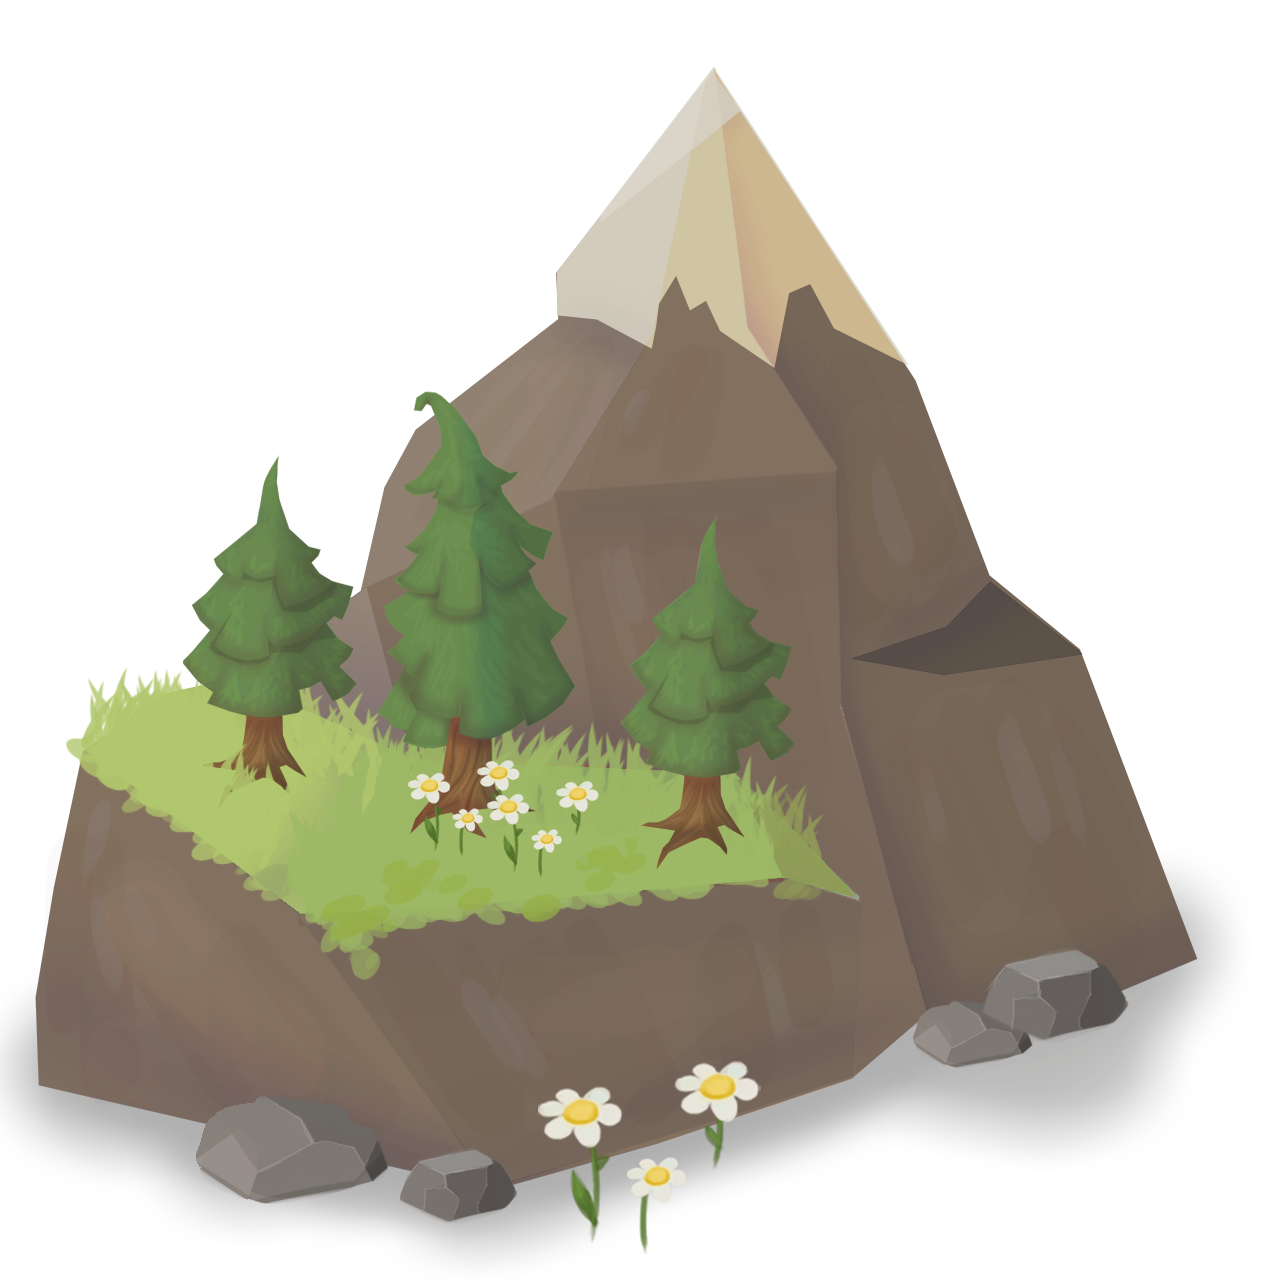
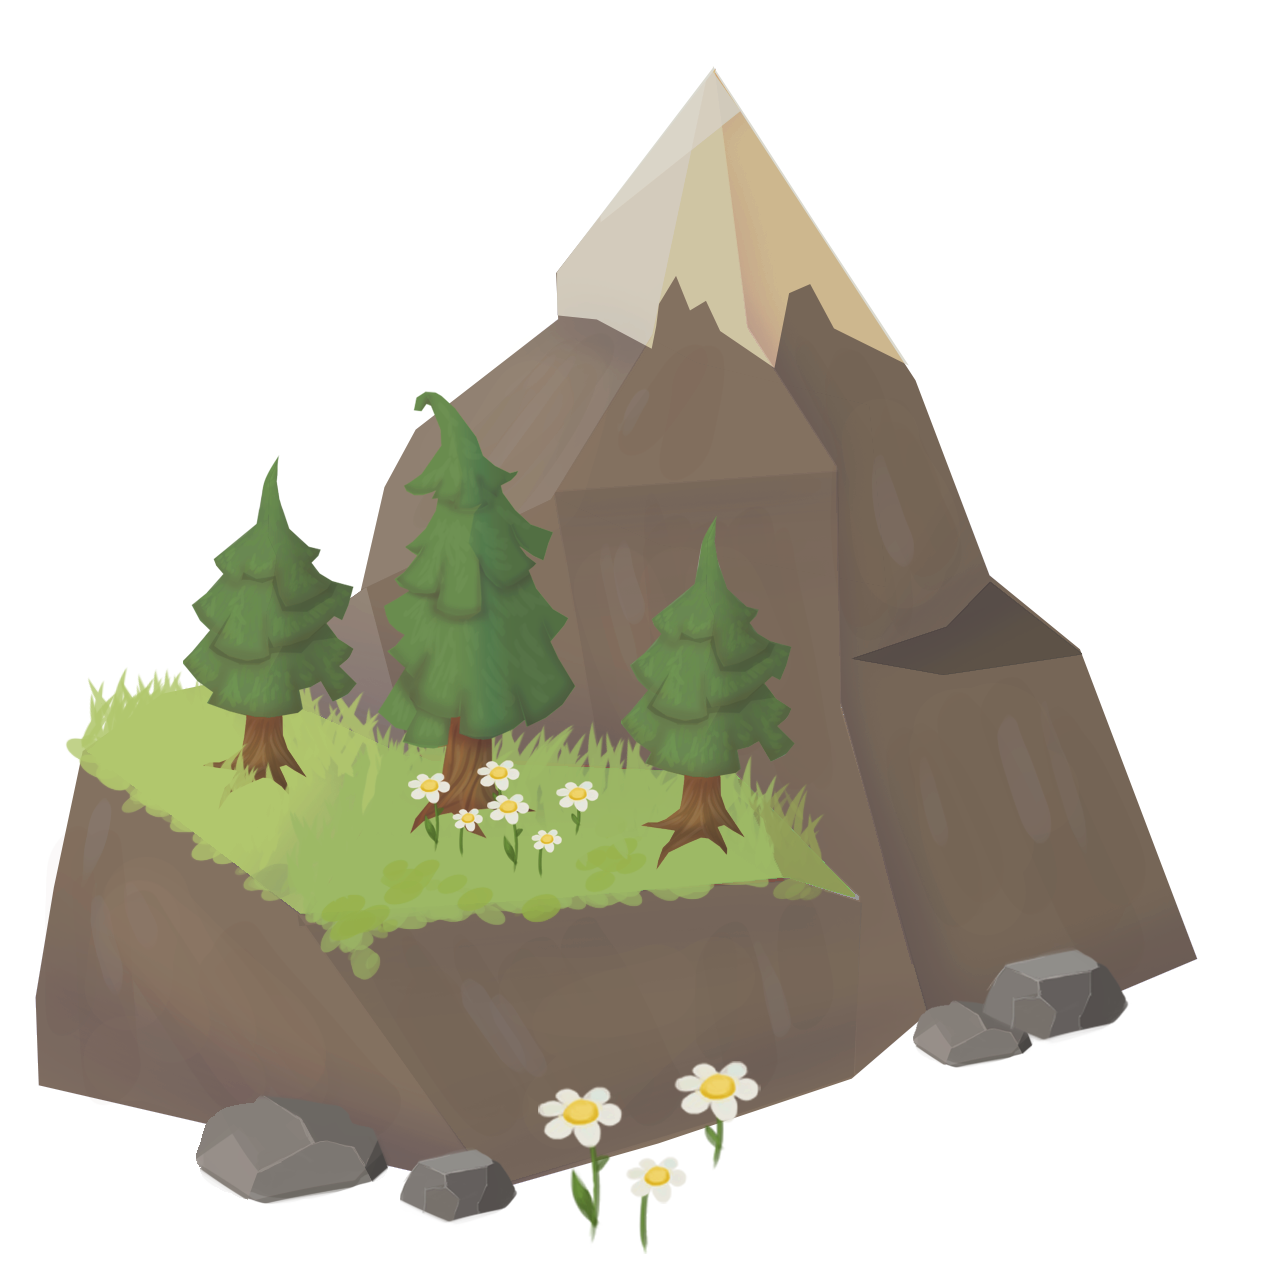
grass texture

Changed region(s): [[0.0, 0.6875, 0.9688, 1.0]]

diff --git a/src/render.rs b/src/render.rs
@@ -44,18 +44,9 @@ pub struct CellHint {
     col: usize,
 }
 
-pub fn get_cell_color(cell_type: CellType) -> Color {
-    match cell_type {
-        CellType::Grass => Color::NONE,
-        CellType::Tree => Color::WHITE,
-        CellType::Lake => Color::WHITE,
-        CellType::Mountain => Color::WHITE,
-    }
-}
-
 pub fn get_cell_texture(server: &Res<AssetServer>, cell_type: CellType) -> Handle<Image> {
     match cell_type {
-        CellType::Grass => DEFAULT_IMAGE_HANDLE.typed(),
+        CellType::Grass => server.load("grass_1.png"),
         CellType::Tree => server.load("forest.png"),
         CellType::Lake => server.load("lake.png"),
         CellType::Mountain => server.load("mountain.png"),
@@ -76,7 +67,6 @@ pub fn create_level_render(
 
     for r in 0..rows {
         for c in 0..columns {
-            let color = get_cell_color(puzzle.field[r][c]);
             let texture = get_cell_texture(&server, puzzle.field[r][c]);
             let tx = c as f32 * CELL_SIZE;
             let ty = puzzle_height - CELL_SIZE - r as f32 * CELL_SIZE;
@@ -89,16 +79,19 @@ pub fn create_level_render(
                         ..Default::default()
                     },
                     transform: Transform::from_xyz(tx, ty, -0.1),
-                    texture: server.load("empty.png"),
+                    texture: server.load("grass_1.png"),
                     ..Default::default()
                 })
                 .id();
             commands.entity(level_render_entity).add_child(id);
 
+            ///
+            let ix = (2.0 * tx - ty) / 2.0;
+            let iy = (2.0 * ty + tx) / 2.0;
+            ///
             let id = commands
                 .spawn(SpriteBundle {
                     sprite: Sprite {
-                        color,
                         custom_size: Some(Vec2::new(CELL_SIZE, CELL_SIZE)),
                         anchor: Anchor::BottomLeft,
                         ..Default::default()

diff --git a/src/main.rs b/src/main.rs
@@ -67,6 +67,7 @@ fn setup(mut commands: Commands, server: Res<AssetServer>) {
             "dot.png",
             "lake.png",
             "mountain.png",
+            "grass_1.png",
         ]
         .map(|name| server.load(name))
         .to_vec(),
